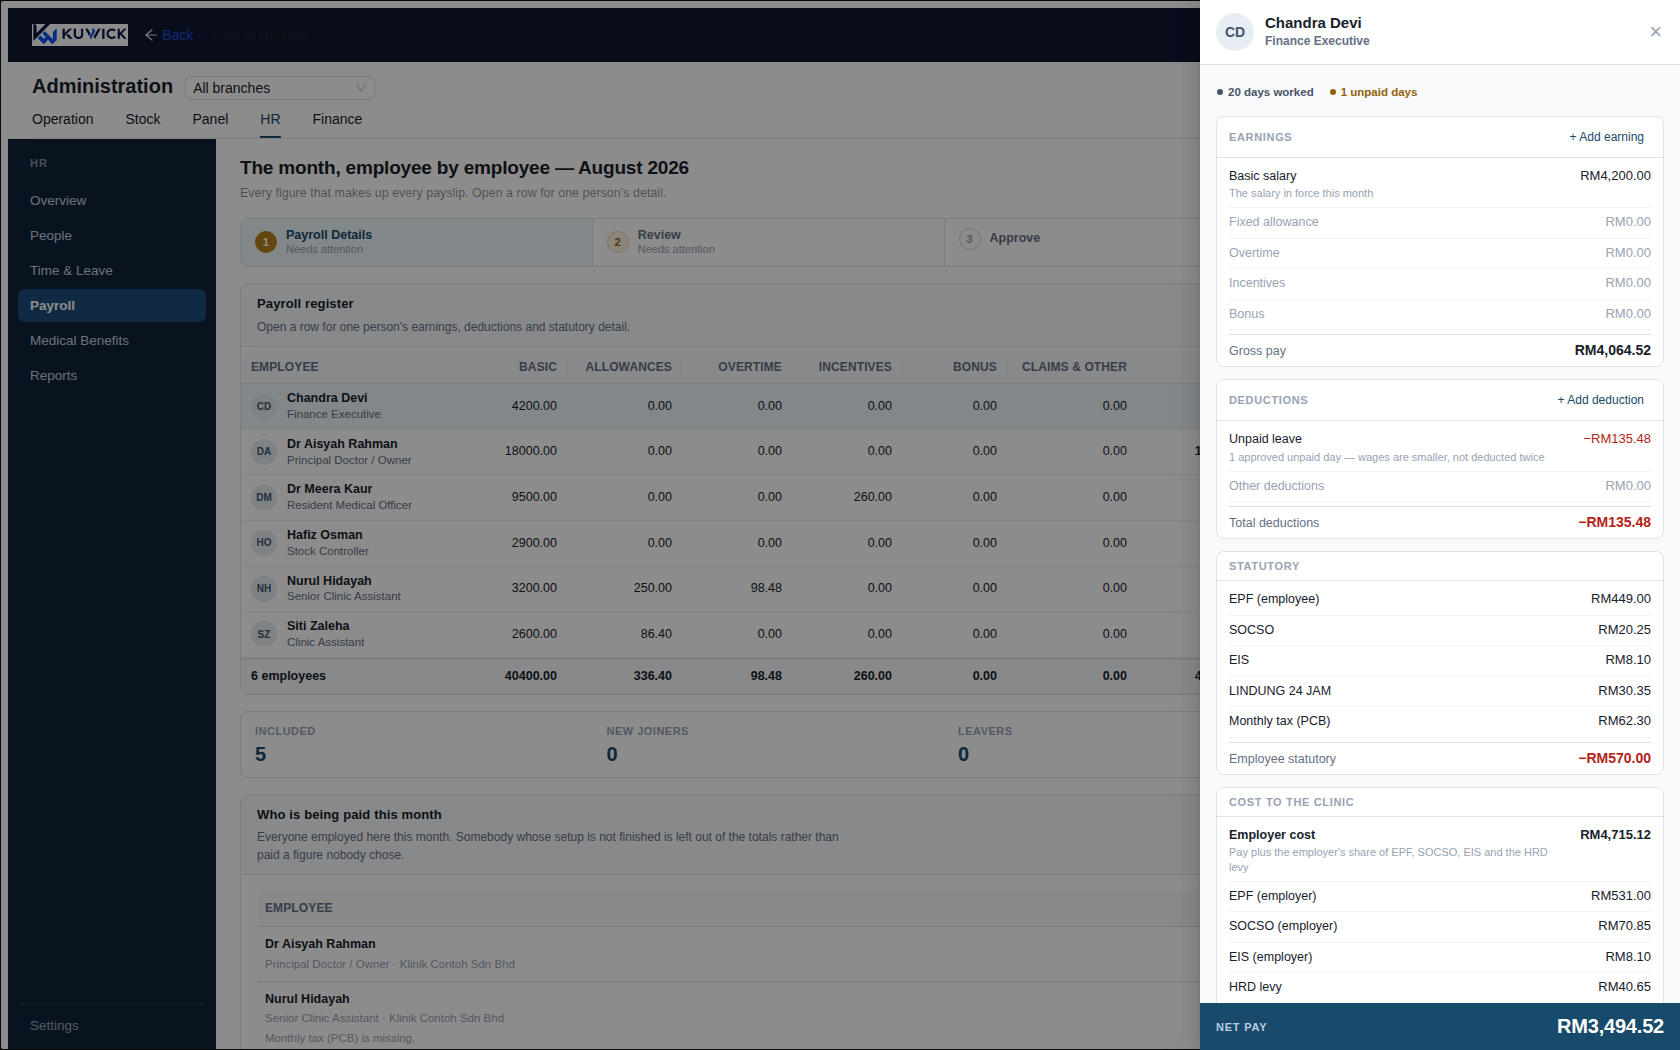
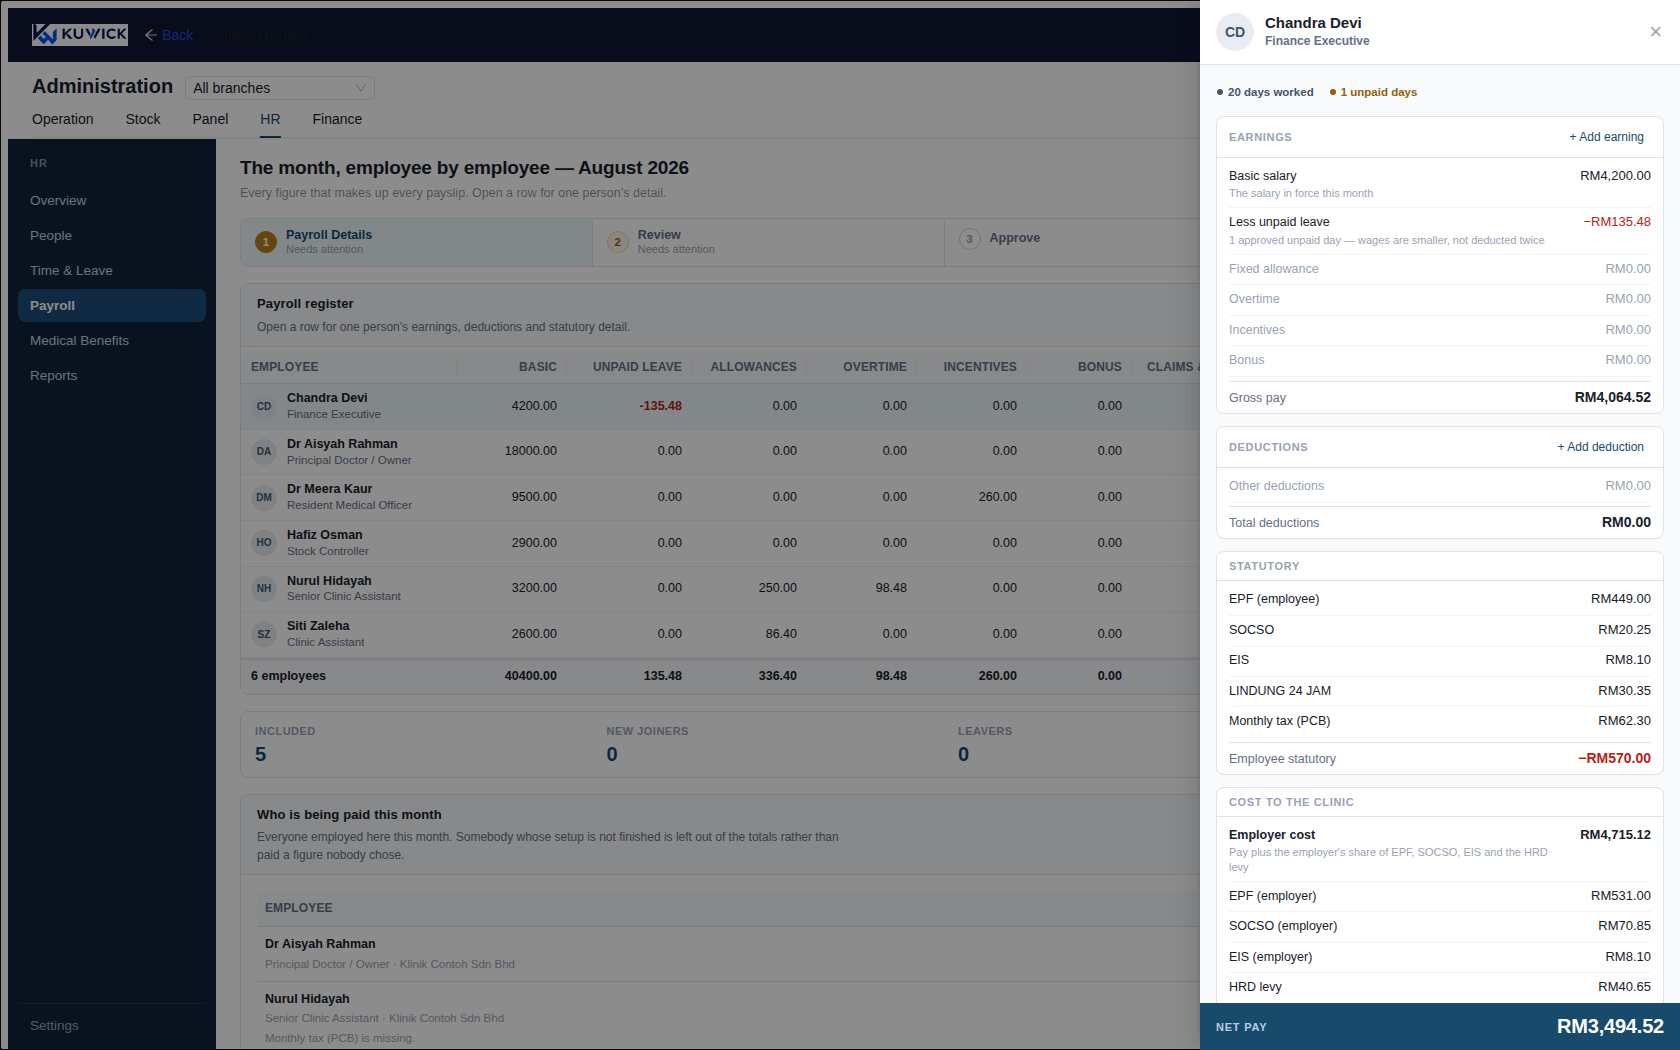
The payroll register adds up left to right, because it did not
Basic plus allowances plus overtime plus incentives plus bonus came to
RM41,094.88 on the seeded month. The gross printed beside it was RM40,959.40.
The RM135.48 that explains the difference was on screen the whole time, in an
"Unpaid leave" column sitting AFTER Gross — between it and Other deductions,
which is exactly where a deduction goes.

It is not a deduction. `grossPay` is basic LESS unpaid leave plus the
additions: s.18A makes an incomplete month's WAGES smaller rather than taking
something out of them, which is a sentence this codebase has said in three
places and then laid out as though it were false. Read left to right, the row
appeared to take the same RM135.48 off twice; read as a total, the register
simply did not reconcile. Nothing looked broken. A money table that does not
add up is one somebody checks on a calculator and then stops trusting.

The column moves to sit with the salary it reduces, before Gross, and the same
correction lands in the employee drawer: unpaid leave is an Earnings line under
Basic salary, so Deductions no longer reports a "Total deductions −RM135.48"
that never touches net pay. Every section of the drawer now reconciles —
4,200.00 − 135.48 = 4,064.52 gross, less 570.00 statutory = 3,494.52 net.

A second gap found on the way: basic plus the four additions cannot reach gross
at all for somebody with a reimbursed claim or a mileage payment, because those
are earnings belonging to none of the five columns. "Claims & other" carries the
[…]

diff --git a/apps/web/src/admin/hr/payrollGrid.test.tsx b/apps/web/src/admin/hr/payrollGrid.test.tsx
@@ -126,6 +126,46 @@ describe('the payroll register', () => {
     expect(document.querySelectorAll('.ant-table-row-expand-icon')).toHaveLength(0);
   });
 
+  /*
+   * THE ROW HAS TO ADD UP LEFT TO RIGHT.
+   *
+   * `grossPay` is basic LESS unpaid leave plus the additions — s.18A makes an
+   * incomplete month's wages smaller, it does not take a deduction from them.
+   * The Unpaid leave column sat AFTER Gross, between it and Other deductions,
+   * which is where a deduction goes: basic plus the four additions came to
+   * RM41,094.88 against a printed gross of RM40,959.40, and the RM135.48 that
+   * explains the gap was on the wrong side of it. Nothing looked broken; a
+   * register that does not add up is simply a register somebody stops trusting.
+   */
+  it('puts every column that makes up gross to the LEFT of it, so a row adds up', () => {
+    render(
+      <PayrollGrid
+        run={run([line({ basicSalary: 4200, unpaidLeaveDeduction: 135.48, allowances: 0, overtimePay: 0, incentives: 0, bonus: 0, grossPay: 4064.52 })])}
+        onOpenEmployee={() => {}}
+        otherEarnings={new Map([['staff-1', '0.00']])}
+      />,
+    );
+
+    const header = screen.getAllByRole('columnheader').map((cell) => cell.textContent?.trim());
+    const at = (label: string) => header.indexOf(label);
+    for (const label of ['Basic', 'Unpaid leave', 'Allowances', 'Overtime', 'Incentives', 'Bonus', 'Claims & other']) {
+      expect(at(label), `${label} must come before Gross`).toBeGreaterThan(-1);
+      expect(at(label)).toBeLessThan(at('Gross'));
+    }
+    // And what genuinely does come off AFTER gross stays after it.
+    expect(at('Other deductions')).toBeGreaterThan(at('Gross'));
+
+    // The arithmetic the order promises: 4200 − 135.48 = 4064.52.
+    const cells = [...(document.querySelector('.kw-payrollGrid__totals')?.querySelectorAll('td') ?? [])]
+      .map((cell) => cell.textContent?.trim());
+    expect(cells).toHaveLength(header.length);
+    const money = (label: string) => Number(cells[at(label)]?.replace('-', '') ?? '0');
+    expect(
+      money('Basic') - money('Unpaid leave') + money('Allowances') + money('Overtime') +
+        money('Incentives') + money('Bonus') + money('Claims & other'),
+    ).toBeCloseTo(money('Gross'), 2);
+  });
+
   it('renders a statutory figure that was never worked out as a dash, never as 0.00', () => {
     // NULL means "not worked out" — no rates configured, or a fact missing.
     // Rendering it as 0.00 tells a clinic it owes nothing, which is the one

diff --git a/apps/web/src/admin/hr/PayrollGrid.tsx b/apps/web/src/admin/hr/PayrollGrid.tsx
@@ -75,6 +75,24 @@ export function PayrollGrid({
       render: (value: string, row) => <PersonCell name={value} meta={row.snapshot?.position ?? undefined} size={26} />,
     },
     { title: 'Basic', dataIndex: 'basicSalary', key: 'basicSalary', align: 'right', width: 110, render: money },
+    {
+      /*
+       * BEFORE GROSS, NOT AFTER IT.
+       *
+       * `grossPay` is basic LESS unpaid leave plus the additions — s.18A makes
+       * an incomplete month's wages smaller, it does not take a deduction from
+       * them. Sitting between Gross and Other deductions, this column read as a
+       * second bite: basic plus the four additions came to RM41,094.88 against
+       * a printed gross of RM40,959.40, and the RM135.48 that explains the gap
+       * was on the wrong side of it. Here the row adds up left to right.
+       */
+      title: 'Unpaid leave',
+      dataIndex: 'unpaidLeaveDeduction',
+      key: 'unpaidLeaveDeduction',
+      align: 'right',
+      width: 125,
+      render: (value: number) => (value ? <span className="kw-num kw-bad">-{value.toFixed(2)}</span> : money(value)),
+    },
     { title: 'Allowances', dataIndex: 'allowances', key: 'allowances', align: 'right', width: 115, render: money },
     { title: 'Overtime', dataIndex: 'overtimePay', key: 'overtimePay', align: 'right', width: 110, render: money },
     { title: 'Incentives', dataIndex: 'incentives', key: 'incentives', align: 'right', width: 110, render: money },
@@ -101,14 +119,6 @@ export function PayrollGrid({
       align: 'right',
       width: 120,
       render: (value: number) => <strong className="kw-num">{value.toFixed(2)}</strong>,
-    },
-    {
-      title: 'Unpaid leave',
-      dataIndex: 'unpaidLeaveDeduction',
-      key: 'unpaidLeaveDeduction',
-      align: 'right',
-      width: 125,
-      render: (value: number) => (value ? <span className="kw-num kw-bad">-{value.toFixed(2)}</span> : money(value)),
     },
     {
       title: 'Other deductions',
@@ -197,13 +207,13 @@ export function PayrollGrid({
               {(
                 [
                   'basicSalary',
+                  'unpaidLeaveDeduction',
                   'allowances',
                   'overtimePay',
                   'incentives',
                   'bonus',
                   'otherEarnings',
                   'grossPay',
-                  'unpaidLeaveDeduction',
                   'otherDeductions',
                   'epfEmployee',
                   'socsoEmployee',

diff --git a/apps/web/src/admin/hr/PayrollEmployeeDrawer.tsx b/apps/web/src/admin/hr/PayrollEmployeeDrawer.tsx
@@ -106,7 +106,9 @@ export function PayrollEmployeeDrawer({
         (line.lindungEmployee ?? 0) +
         (line.pcb ?? 0);
 
-  const deductionTotal = line.unpaidLeaveDeduction + line.otherDeductions;
+  // Unpaid leave is NOT in here: it is already off the gross. See the earnings
+  // section above.
+  const deductionTotal = line.otherDeductions;
 
   return (
     <DetailDrawer
@@ -157,6 +159,26 @@ export function PayrollEmployeeDrawer({
           value={ringgit(line.basicSalary.toFixed(2))}
           source="The salary in force this month"
         />
+        {/*
+          * UNPAID LEAVE BELONGS TO THE EARNINGS, not the deductions.
+          *
+          * s.18A makes an incomplete month's WAGES smaller: `grossPay` is
+          * already basic less this figure. Listed under Deductions it was
+          * counted twice by the reader — a "Total deductions −RM135.48" that
+          * never touches net pay, over a gross that had already absorbed it.
+          */}
+        {line.unpaidLeaveDeduction ? (
+          <LineItem
+            label="Less unpaid leave"
+            value={`−${ringgit(line.unpaidLeaveDeduction.toFixed(2))}`}
+            tone="deduct"
+            source={
+              line.unpaidDays
+                ? `${line.unpaidDays} approved unpaid day${line.unpaidDays === 1 ? '' : 's'} — wages are smaller, not deducted twice`
+                : 'Wages are smaller, not deducted twice'
+            }
+          />
+        ) : null}
         <LineItem label="Fixed allowance" value={ringgit(line.allowances.toFixed(2))} tone={line.allowances ? undefined : 'muted'} />
         <LineItem
           label="Overtime"
@@ -199,16 +221,6 @@ export function PayrollEmployeeDrawer({
           ) : null
         }
       >
-        <LineItem
-          label="Unpaid leave"
-          value={line.unpaidLeaveDeduction ? `−${ringgit(line.unpaidLeaveDeduction.toFixed(2))}` : ringgit('0.00')}
-          tone={line.unpaidLeaveDeduction ? 'deduct' : 'muted'}
-          source={
-            line.unpaidDays
-              ? `${line.unpaidDays} approved unpaid day${line.unpaidDays === 1 ? '' : 's'} — wages are smaller, not deducted twice`
-              : undefined
-          }
-        />
         <LineItem
           label="Other deductions"
           value={line.otherDeductions ? `−${ringgit(line.otherDeductions.toFixed(2))}` : ringgit('0.00')}

diff --git a/apps/web/src/admin/hr/payrollJourney.test.tsx b/apps/web/src/admin/hr/payrollJourney.test.tsx
@@ -118,8 +118,12 @@ describe('the money steps render the engine and compute nothing', () => {
     // The month-level statement is on the Review stage; the per-person one is
     // in the drawer, beside the figure it explains.
     expect(code(runSource)).toMatch(/Unpaid leave is not a deduction/);
-    expect(code(drawerSource)).toMatch(/Unpaid leave/);
+    // And in the drawer it sits with the EARNINGS it reduces, because gross
+    // has already absorbed it — listed under Deductions it was a total that
+    // never touches net pay.
+    expect(code(drawerSource)).toMatch(/Less unpaid leave/);
     expect(code(drawerSource)).toMatch(/wages are smaller, not deducted twice/);
+    expect(code(drawerSource)).toMatch(/const deductionTotal = line\.otherDeductions;/);
   });
 
   it('surfaces a run whose lines do not reach its own totals rather than tidying it up', () => {

diff --git a/docs/HR_PREMIUM_VISUAL_UAT.md b/docs/HR_PREMIUM_VISUAL_UAT.md
@@ -27,7 +27,7 @@ Screenshots for each row are in `docs/screenshots/hr-premium-final/`.
 | 6 | Roster | month, branch, copy last month, add shift, people × days, clear states | **Matches.** The canonical roster component is unchanged; the permanent "One roster" banner is gone. |
 | 7 | Leave | Requests · Calendar · Balances, requests first, approvals obvious | **Matches.** Calendar and Balances are new; balances come from one new read that runs the same computation as the per-person one. |
 | 8 | Claims | employee, type, date, amount, payment route, status, action | **Matches.** It no longer looks like a separate application. |
-| 9 | Payroll register | month + status, four stages, people down, money across, totals below | **Matches.** Stage names are the reference's own: Payroll Details · Review · Approve · Finalise. |
+| 9 | Payroll register | month + status, four stages, people down, money across, totals below | **Matches, and now adds up.** Stage names are the reference's own: Payroll Details · Review · Approve · Finalise. The row reconciles left to right — see the defect below. |
 | 10 | Payroll employee detail | right drawer — Earnings, Deductions, Statutory, NET PAY, provenance | **Matches.** Row expansion is gone; a regression test pins that. Zakat appears only where somebody has one. |
 | 11 | Review & approval | Blockers, then Warnings, then summary; Fix / Review / Acknowledge / View; Proceed to Approval | **Matches.** |
 | 12 | Reports | categories and cards, not a dropdown; only what exists | **Matches.** Thirteen server-served reports as cards, four working views that are screens marked as such, and the named absences kept with their reasons. |
@@ -43,6 +43,26 @@ Screenshots for each row are in `docs/screenshots/hr-premium-final/`.
 | iPad landscape 1180 | Overview, People, register, Attendance, Reports | Rail present; workspace grid one column below 1080. |
 | iPad portrait 820 | Overview, People, register, Leave, Settings | Rail present. Money tables scroll sideways with the employee and net-pay columns pinned. |
 | Mobile 390 | Overview, People, Attendance, register | Rail becomes the hub's tab strip plus a section picker. Stat strips go two across; stages wrap two by two; the register keeps the person and their net pay and scrolls the rest. Type is never shrunk to fit. |
+
+## Two defects the visual pass found
+
+**The register did not add up across.** `grossPay` is basic LESS unpaid leave
+plus the additions — s.18A makes an incomplete month's wages smaller, it does
+not take a deduction from them. The Unpaid leave column sat AFTER Gross, where
+a deduction goes, so basic plus the four additions came to RM41,094.88 against
+a printed gross of RM40,959.40 and the RM135.48 that explains the gap was on
+the wrong side of it. Nothing looked broken; a register that does not add up is
+simply one somebody stops trusting. The column is before Gross now, and the
+employee drawer shows the same figure under Earnings rather than posting a
+"Total deductions" that never touches net pay. Pinned by
+`payrollGrid.test.tsx` → *"puts every column that makes up gross to the LEFT of
+it, so a row adds up"*.
+
+**A residual could hide off the register.** Basic plus allowances plus overtime
+plus incentives plus bonus does not reach gross when somebody has a reimbursed
+claim or a mileage payment. "Claims & other" is a column now, filled from the
+engine's own `pay.rows[].otherEarnings` — never a subtraction done in the
+browser.
 
 ## What is deliberately not there
 
